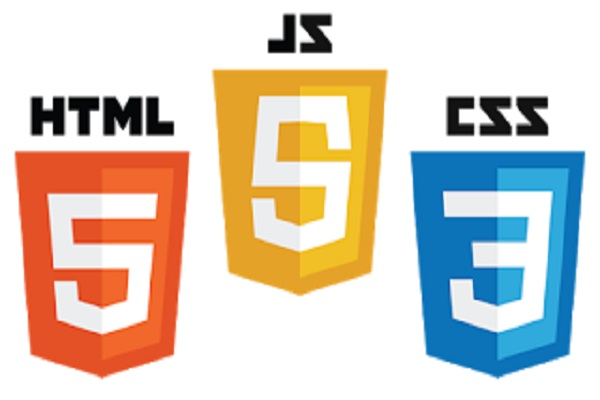
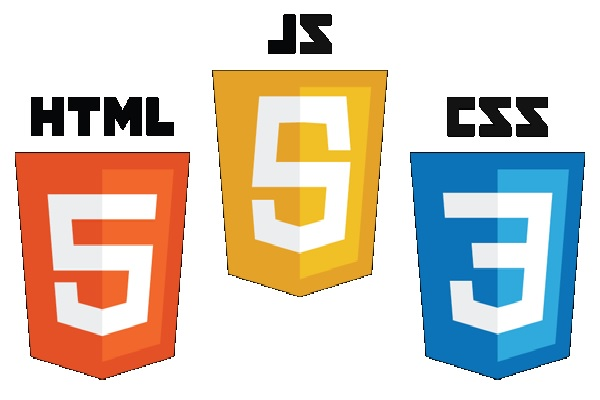
meet2
fix

diff --git a/index.html b/index.html
@@ -283,7 +283,7 @@ p ,h1 {
       </div>
       <div class="item-group">
         <div class="item5">
-          <img src = "images/JS.png">
+          <img src = "images/JS.jpg">
         </div>
         <div class="item5">
           <img src = "images/php.jpg">
